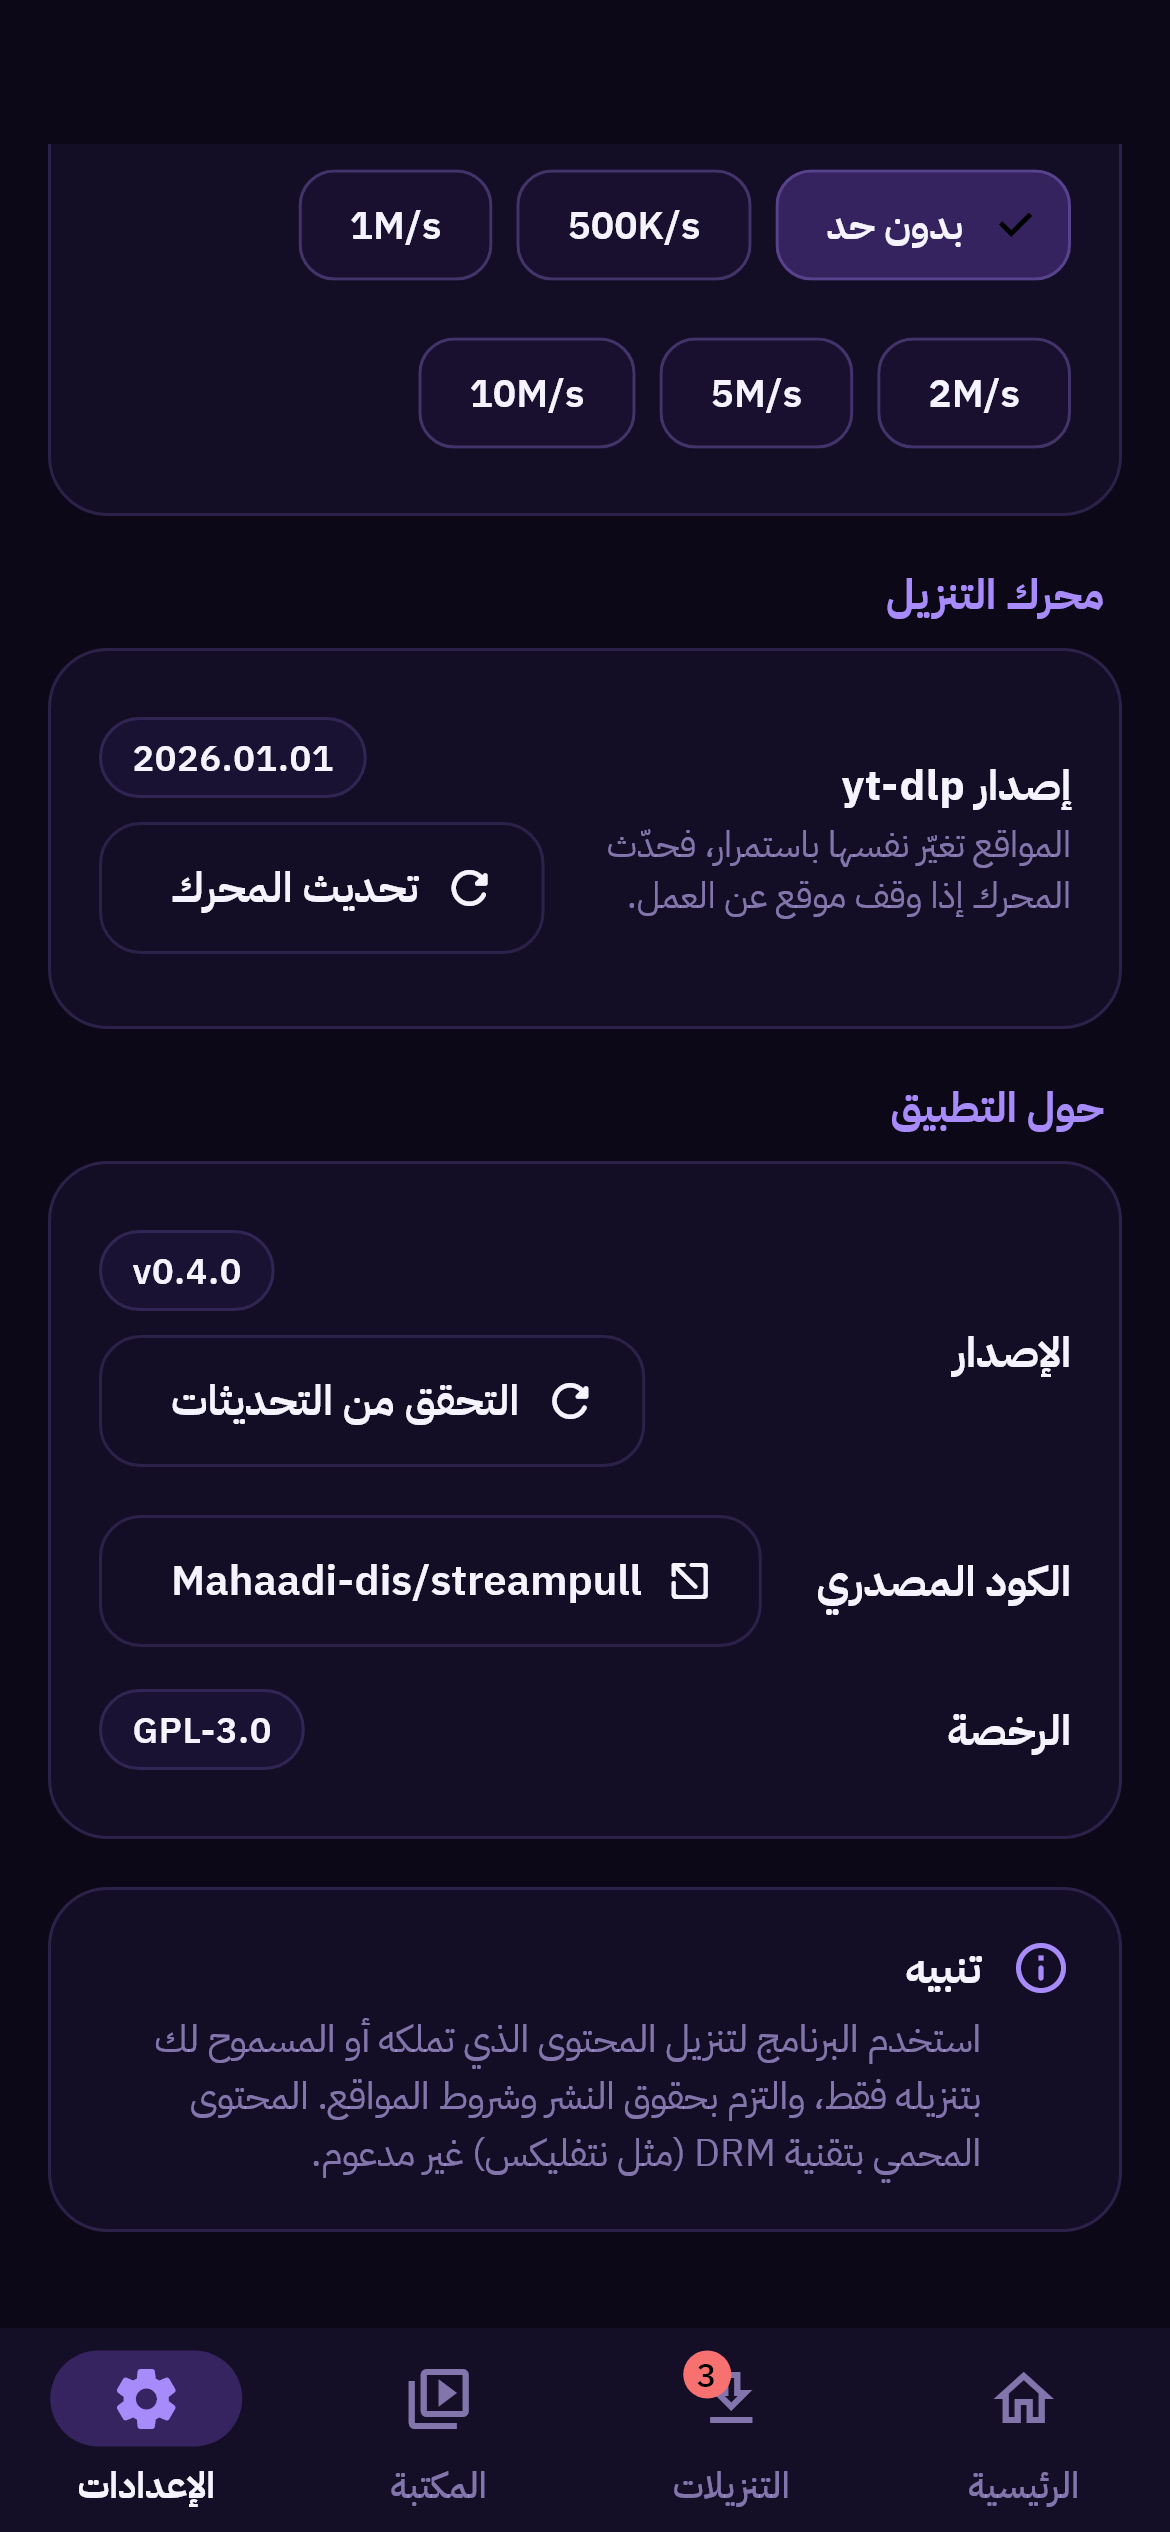
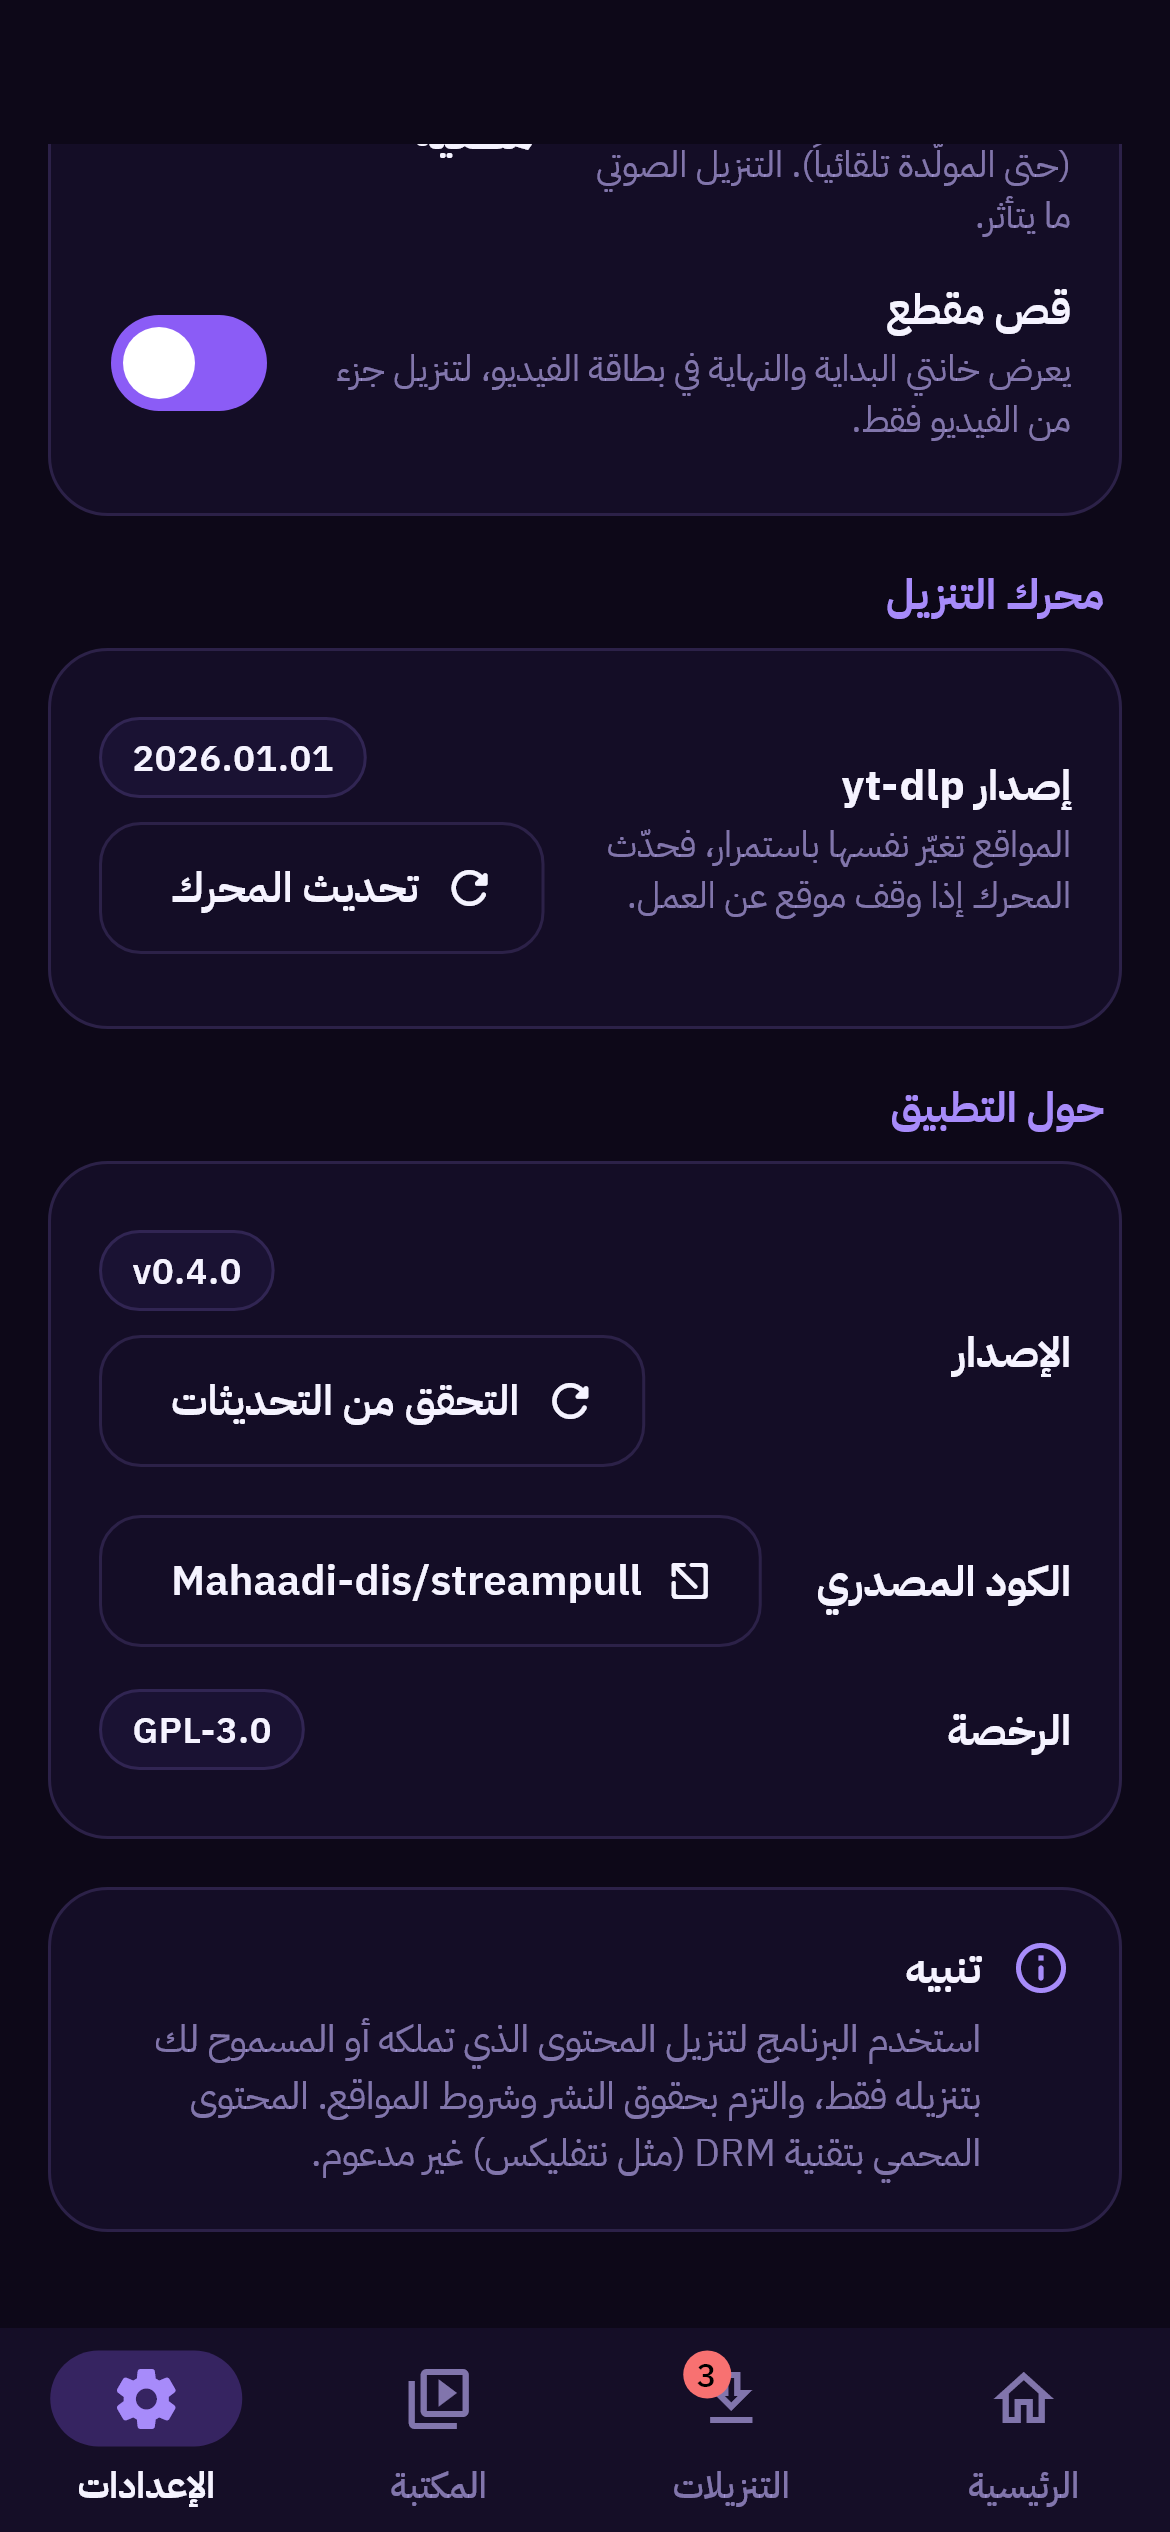
README and screenshots for the optional features (audio cover/tags/bitrate, subtitles, clips, Wi-Fi only)

Changed region(s): [[0.3385, 0.0624, 0.9231, 0.1872], [0.0923, 0.1248, 0.2462, 0.1872], [0.3077, 0.0624, 0.3692, 0.0936]]

diff --git a/mobile/test/screenshots/screenshots_test.dart b/mobile/test/screenshots/screenshots_test.dart
@@ -113,6 +113,8 @@ Future<ui.Image> shot(
   required int tab,
   bool analyzed = false,
   bool scrollToEnd = false,
+  double scrollBy = 0,
+  Future<void> Function(WidgetTester tester, AppModel model)? prepare,
   String? file,
 }) async {
   final s = Sample(lang == 'ar');
@@ -139,6 +141,18 @@ Future<ui.Image> shot(
     await tester.pump(const Duration(milliseconds: 250));
   }
 
+  if (scrollBy != 0) {
+    await tester.drag(find.byType(ListView).first, Offset(0, scrollBy));
+    for (var i = 0; i < 4; i++) {
+      await tester.pump(const Duration(milliseconds: 250));
+    }
+  }
+  if (prepare != null) {
+    await prepare(tester, model);
+    for (var i = 0; i < 3; i++) {
+      await tester.pump(const Duration(milliseconds: 250));
+    }
+  }
   if (scrollToEnd) {
     await tester.drag(find.byType(ListView).first, const Offset(0, -6000));
     for (var i = 0; i < 4; i++) {
@@ -208,6 +222,34 @@ void main() {
       await shot(tester, lang: lang, theme: 'violet', tab: 2, file: 'library-$lang.png');
       await shot(tester, lang: lang, theme: 'violet', tab: 3, file: 'settings-$lang.png');
       await shot(tester, lang: lang, theme: 'violet', tab: 3, scrollToEnd: true, file: 'about-$lang.png');
+      // the audio / video extras in Settings, and the "cut a clip" fields on the media card
+      await shot(
+        tester,
+        lang: lang,
+        theme: 'violet',
+        tab: 3,
+        prepare: (t, m) async {
+          await t.scrollUntilVisible(find.text(m.t('set.audio')), 300, scrollable: find.byType(Scrollable).first);
+          await t.drag(find.byType(ListView).first, const Offset(0, 330));
+        },
+        file: 'extras-$lang.png',
+      );
+      await shot(
+        tester,
+        lang: lang,
+        theme: 'violet',
+        tab: 0,
+        analyzed: true,
+        scrollBy: -480,
+        prepare: (t, m) async {
+          await t.tap(find.text(m.t('media.clip')));
+          await t.pump(const Duration(milliseconds: 300));
+          final fields = find.byType(TextField);
+          await t.enterText(fields.at(fields.evaluate().length - 2), '1:30');
+          await t.enterText(fields.at(fields.evaluate().length - 1), '4:15');
+        },
+        file: 'clip-$lang.png',
+      );
     });
 
     testWidgets('themes ($lang)', (tester) async {

diff --git a/README.md b/README.md
@@ -35,6 +35,12 @@ StreamPull is a desktop (and, new in 0.4.0, Android) alternative to browser exte
   browser (the app then reuses that session). Direct links to public Instagram posts and reels work without signing in.
 - **Smart queue** — parallel downloads, pause / resume / cancel / retry, live speed and ETA.
 - **Library** — history with search, filters, *open file*, *show in folder*, *download again*.
+- **Audio done right** — the video's thumbnail becomes the cover art of your MP3/M4A (cropped to a square), with title/artist
+  tags, and you pick the MP3 bitrate (Best, 320, 192 or 128 kbps).
+- **Subtitles** — embed them in the video or save a separate `.srt`, in the languages you choose.
+- **Cut a clip** — download only from 1:30 to 2:40 instead of the whole video.
+- **Wi‑Fi only** (Android) — downloads wait until you're on Wi‑Fi, with a one-time "use mobile data now" button.
+  Every extra is optional: switch each one off in *Settings*.
 - **Color themes** — Violet, Ocean, Emerald, Rose, Sunset or Midnight black; change it any time in *Settings → Appearance*.
 - **Arabic first, English too** — full RTL layout, switchable at any time.
 - **On your phone too** — the Android app does the same job: paste a link or **share it from any app**, pick a quality,
@@ -52,6 +58,17 @@ StreamPull is a desktop (and, new in 0.4.0, Android) alternative to browser exte
 </p>
 <p align="center">
   <img src="docs/screenshots/about-en.png" width="400" alt="About: version and update check" />
+</p>
+
+### Extras (all optional)
+
+<p align="center">
+  <img src="docs/screenshots/extras-en.png" width="400" alt="Settings: audio files and video extras" />
+  <img src="docs/screenshots/clip-en.png" width="400" alt="Cut a clip: from 1:30 to 2:40" />
+</p>
+<p align="center">
+  <img src="docs/screenshots/android/extras-en.png" width="190" alt="Android settings: audio files" />
+  <img src="docs/screenshots/android/clip-en.png" width="190" alt="Android: cut a clip" />
 </p>
 
 ### Six color themes
